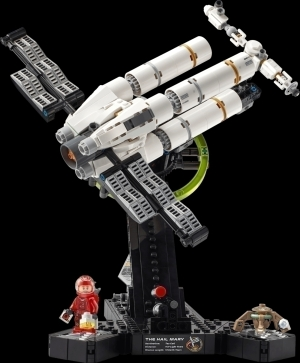
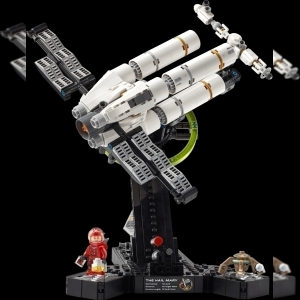
catalog thumbnail fits by it is size now and has blurred bg

Changed region(s): [[0.06, 0.0, 0.96, 1.0], [0.99, 0.21, 1.0, 0.24]]

diff --git a/app/Helper/Thumbnail.php b/app/Helper/Thumbnail.php
@@ -28,10 +28,10 @@ class Thumbnail
         $newImage = imagecreatetruecolor($newWidth, $newHeight);
 
         imagecopyresampled(
-            $newImage,
-            $oldImage,
-            0, 0,
-            0, 0,
+            $newImage,  // Target Pic
+            $oldImage,  // Source Pic
+            0, 0,       // Target Start X, Y new image
+            0, 0,       // Source Start X, Y old image
             $newWidth,
             $newHeight,
             $oldWidth,
@@ -41,31 +41,104 @@ class Thumbnail
         imagejpeg($newImage, $destination, 100);
 
         imagedestroy($oldImage);
-        imagedestroy($newImage);
+        //imagedestroy($newImage);
 
         if ($source !== $destination && file_exists($source)) {
             unlink($source);
         }
 
-        $thumbWidth = 300;
-        $thumbHeight = (int) ($oldHeight * $thumbWidth / $oldWidth);
-        
-        $thumb = imagecreatetruecolor($thumbWidth, $thumbHeight);
+        $src_w = imagesx($newImage);
+        $src_h = imagesy($newImage);
+
+        $thumbMaxEdgeLength = 300;
+
+        if ($src_w >= $src_h) {
+            $thumbWidthRatio = $src_w / $thumbMaxEdgeLength;
+
+            $thumbWidth = $thumbMaxEdgeLength;
+            $thumbHeight = $src_h / $thumbWidthRatio;
+        } else {
+            $thumbHeightRatio = $src_h / $thumbMaxEdgeLength;
+
+            $thumbHeight = $thumbMaxEdgeLength;
+            $thumbWidth = $src_w / $thumbHeightRatio;
+        }
+
+        $thumbWidth = (int) $thumbWidth;
+        $thumbHeight = (int) $thumbHeight;
+
+        $newThumbFront = imagecreatetruecolor($thumbWidth, $thumbHeight);
+        $newThumbBackground = imagecreatetruecolor($thumbMaxEdgeLength, $thumbMaxEdgeLength);
 
         imagecopyresampled(
-            $thumb,
-            $oldImage,
+            $newThumbFront,
+            $newImage,
             0, 0,
             0, 0,
             $thumbWidth,
             $thumbHeight,
-            $oldWidth,
-            $oldHeight
+            $src_w,
+            $src_h
         );
 
-        imagejpeg($thumb, $thumbDestination, 100);
+        for ($i = 0; $i < 10; $i++) {
+            imagefilter($newImage, IMG_FILTER_GAUSSIAN_BLUR);
+        }
 
-        $fileSize = filesize($destination);
-        $req->getModel("Catalog")->updateZFile($id, $fileSize);
+        imagecopyresampled(
+            $newThumbBackground,
+            $newImage,
+            0, 0,
+            0, 0,
+            $thumbMaxEdgeLength,
+            $thumbMaxEdgeLength,
+            $src_w,
+            $src_h
+        );
+
+
+        imagecopy(
+            $newThumbBackground,
+            $newThumbFront,
+            (int) (($thumbMaxEdgeLength - $thumbWidth) / 2), (int) (($thumbMaxEdgeLength - $thumbHeight) / 2),
+            0, 0,
+            $thumbWidth,
+            $thumbHeight
+        );
+
+        imagejpeg($newThumbBackground, $thumbDestination, 100);
+
+
+        imagedestroy($newImage);
+        imagedestroy($newThumbFront);
+        imagedestroy($newThumbBackground);
+
+
+
+        // $thumbWidth = 300;
+        // $thumbHeight = (int) ($oldHeight * $thumbWidth / $oldWidth);
+        
+        // $thumb = imagecreatetruecolor($thumbWidth, $thumbHeight);
+
+        // imagecopyresampled(
+        //     $thumb,
+        //     $oldImage,
+        //     0, 0,
+        //     0, 0,
+        //     $thumbWidth,
+        //     $thumbHeight,
+        //     $oldWidth,
+        //     $oldHeight
+        // );
+
+        // for ($i = 0; $i < 10; $i++) {
+        //     imagefilter($thumb, IMG_FILTER_GAUSSIAN_BLUR);
+        // }
+        
+
+        // imagejpeg($thumb, $thumbDestination, 100);
+
+        // $fileSize = filesize($destination);
+        // $req->getModel("Catalog")->updateZFile($id, $fileSize);
     }
 }

diff --git a/app/Views/catalog/show.blade.php b/app/Views/catalog/show.blade.php
@@ -65,11 +65,17 @@
 
     <aside class="col-lg-4">
         <div class="bg-box rounded p-4">
-            <h5>Übersicht</h
+            <h5>Übersicht</h5>
             <?php if ($opt["user"]->checkPermission("catalog.edit") || $opt["user"]->checkPermission("catalog.create")): ?>
                 <div class="d-flex justify-content-between">
                     <span>Status</span>
-                    <span><?= (e($opt["catalog"]["active"]) == true) ? "<span style='color:green;font-weight:bold;'>aktiv</span>" : "<span style='color:dark     <span><?= count($opt["items"]) ?></span>
+                    <span><?= (e($opt["catalog"]["active"]) == true) ? "<span style='color:green;font-weight:bold;'>aktiv</span>" : "<span style='color:darkred'>gelöscht</span>" ?></span>
+                </div>
+            <?php endif; ?>
+
+            <div class="d-flex justify-content-between">
+                <span>Varianten</span>
+                <span><?= count($opt["items"]) ?></span>
             </div>
 
             <?php if ($opt["user"]->checkPermission("catalog.edit") || $opt["user"]->checkPermission("catalog.create")): ?>

diff --git a/app/Views/catalog/test.blade.php b/app/Views/catalog/test.blade.php
@@ -2,8 +2,9 @@
 
 @section("content")
 
-
-<image src="<?= $opt['root'] ?>uploads/thumb_6ac35e7bbe6e3.jpg" >
+Thumb:
+<image src="<?= $opt['root'] ?>uploads/thumb_6ac35e7bbe6e3.jpg" ><br>
+Original:
 <image src="<?= $opt['root'] ?>uploads/6ac35e7bbe6e3.jpg" >
 
 <script>
